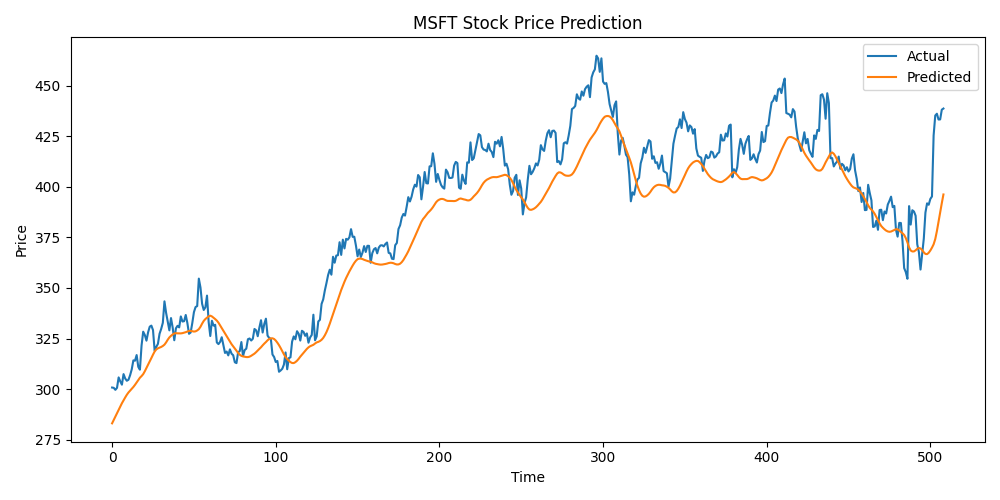
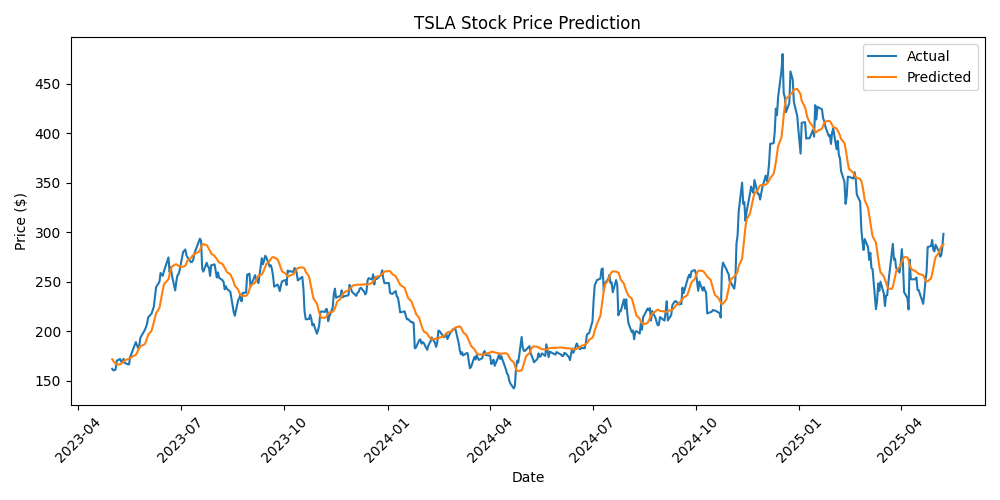
modified plot to show dates instead of generic time

diff --git a/app.py b/app.py
@@ -53,12 +53,14 @@ def index():
 
             # Plot results
             plt.figure(figsize=(10, 5))
-            plt.plot(actual, label='Actual')
-            plt.plot(predictions, label='Predicted')
+            dates = df.index[-len(actual):]  # Get the dates corresponding to test data
+            plt.plot(dates, actual, label='Actual')
+            plt.plot(dates, predictions, label='Predicted')
             plt.title(f'{ticker} Stock Price Prediction')
-            plt.xlabel('Time')
-            plt.ylabel('Price')
+            plt.xlabel('Date')
+            plt.ylabel('Price ($)')
             plt.legend()
+            plt.xticks(rotation=45)  # Rotate date labels for better readability
             plt.tight_layout()
 
             plot_path = os.path.join('static', 'prediction.png')
